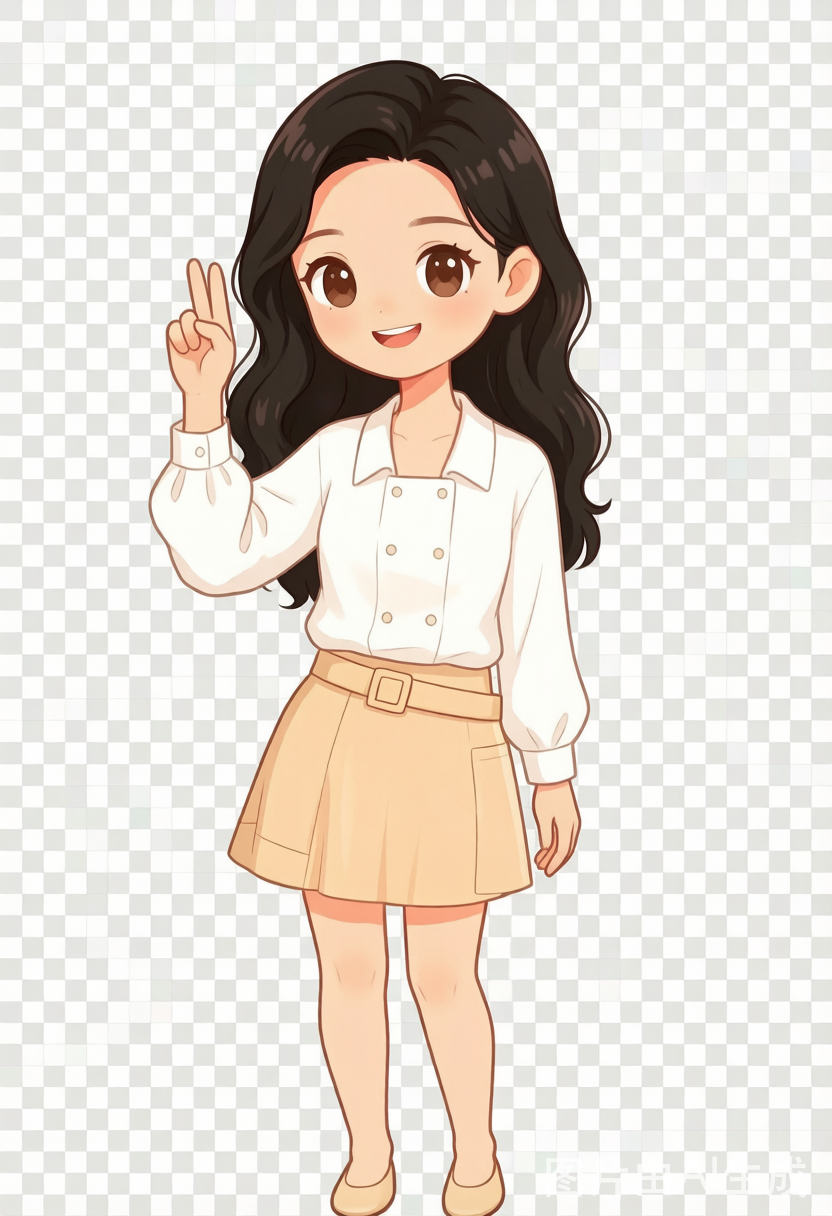
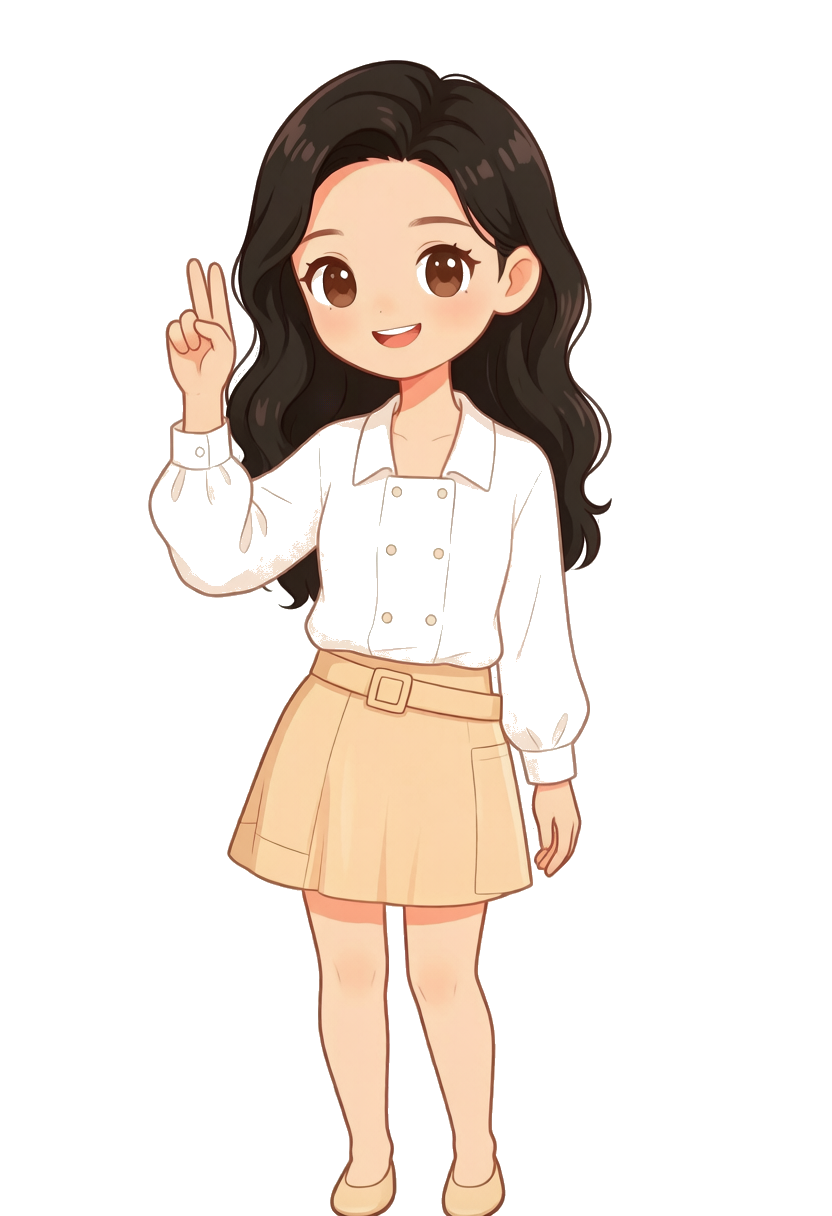
fix: 编辑器Bug修复(自动保存/气泡优先级/黏连) + 去背姿势图 + 标点避头
- Bug1: 编辑自动保存, 不再生成重复任务(currentTaskId闭环)
- Bug2: 切换任务后格子尺寸兜底, 不再缩小
- Bug3: 气泡优先级 人物指定 > 该格 > 默认, 加trim兜底
- Bug4: 气泡背景+文字可整体拖动/缩放, 双击可编辑
- 前端白边fallback改transparent, 后端标点避头if->while(连续标点)
- static/poses 批量去背(RGB->RGBA透明)

diff --git a/templates/index.html b/templates/index.html
@@ -4895,24 +4895,25 @@
                     if (target) {
                         if (target.type === 'textbox') {
                             startBubbleEdit(target);
-                        } else if (target.type === 'rect' && target.bubbleRef) {
+                        } else if (target.bubbleRef) {
+                            // 双击气泡底图/边框同样进入文字编辑
                             startBubbleEdit(target.bubbleRef);
                         }
                     }
                 });
 
-                // 修复：简化选中逻辑，避免强制切换导致交互混乱
+                // 修复（Bug4）：点击气泡底图(bubbleBgImg)或边框(borderRect)时，统一重定向到对应的
+                // 文字框(textbox)，使「气泡背景 + 文字」作为整体被选中、拖动、缩放，互不分离。
                 window.editorCanvas.on('before:selection:created', function(options) {
                     const target = options.target;
-                    // 点击 borderRect 时，重定向到对应的 textbox
-                    if (target && target.type === 'rect' && target.bubbleRef) {
+                    if (target && target.bubbleRef) {
                         options.target = target.bubbleRef;
                     }
                 });
 
                 window.editorCanvas.on('before:selection:updated', function(options) {
                     const target = options.selected && options.selected[0];
-                    if (target && target.type === 'rect' && target.bubbleRef) {
+                    if (target && target.bubbleRef) {
                         options.target = target.bubbleRef;
                     }
                 });
@@ -4972,8 +4973,10 @@
                             logicalH = finalPanelSize.height;
                         }
                     }
-                    logicalW = logicalW || img.width;
-                    logicalH = logicalH || img.height;
+                    // 兜底：即便 canvas_width 缺失且背景图读取失败，也使用默认画布尺寸常量，
+                    // 绝不回退为 0，避免编辑画布被压扁/缩小。
+                    logicalW = logicalW || img.width || 1024;
+                    logicalH = logicalH || img.height || 768;
                     window.editorLogicalWidth = logicalW;
                     window.editorLogicalHeight = logicalH;
                     const availableW = Math.max(320, container.clientWidth || 900);
@@ -5010,8 +5013,8 @@
                                 const legacyDarkBubble = legacyFill &&
                                     (0.299 * legacyFill[0] + 0.587 * legacyFill[1] + 0.114 * legacyFill[2] < 140);
                                 const fallbackTextColor = legacyDarkBubble ? '#ffffff' : '#333333';
-                                const fallbackStrokeColor = legacyDarkBubble ? '#000000' : '#ffffff';
-                                const fallbackStrokeWidth = Math.max(1, Math.round((b.fontSize || b.font_size || 18) / 12));
+                                const fallbackStrokeColor = 'transparent';
+                                const fallbackStrokeWidth = 0;
                                 // 兼容后端元数据：bubble_url / fill_color / outline_color
                                 // 兼容编辑器保存数据：bubbleImage / backgroundColor / borderColor
                                 const opts = {
@@ -5362,8 +5365,11 @@
             if (bubbleImage) {
                 fabric.Image.fromURL(bubbleImage, function(bgImg) {
                     bgImg.set({
-                        selectable: false,
-                        evented: false,
+                        // 修复（Bug4）：设为可选+可响应事件，使点击气泡底图也能命中并选中其关联
+                        // 文字框，配合 before:selection 重定向，实现「气泡背景+文字」整体拖动/缩放。
+                        // 锁定位/缩放/旋转，避免底图被单独变换而脱离文字。
+                        selectable: true,
+                        evented: true,
                         hasControls: false,
                         hasBorders: false,
                         lockMovementX: true, lockMovementY: true,
@@ -5395,6 +5401,7 @@
                     };
                     bubble.on('moving', syncBg);
                     bubble.on('scaling', syncBg);
+                    bubble.on('rotating', syncBg);
                     bubble.on('modified', syncBg);
                     syncBg();
                 }, { crossOrigin: 'anonymous' });
@@ -5409,8 +5416,10 @@
                 fill: 'transparent',
                 stroke: bubbleImage ? 'transparent' : (opts.borderColor || '#4A90D9'),
                 strokeWidth: bubbleImage ? 0 : (opts.borderWidth || 2),
-                selectable: false,
-                evented: false,
+                // 修复（Bug4）：设为可选+可响应，配合 before:selection 重定向到文字框，
+                // 使边框也作为整体的一部分被选中/拖动/缩放。
+                selectable: true,
+                evented: true,
                 hasControls: false,
                 hasBorders: false,
                 rx: radius + 3,
@@ -5868,7 +5877,10 @@
                             
                             // 修复：直接重新渲染整个预览，确保更新生效
                             renderComicPreview();
-                            
+                            // 修复（Bug1）：编辑保存成功后自动持久化到当前任务，
+                            // 不再需要手动再点【保存为任务】，且侧栏更新已有条目而非新增。
+                            autoSaveCurrentTask();
+
                             closeEditor();
                             showSuccess('✅ 面板编辑已保存并应用！');
                         } else {
@@ -6342,9 +6354,17 @@
         // 冗余记录该任务当前归属的「节」，便于换设备/清缓存后恢复分组
         taskSectionId:(typeof getTaskSectionIdOf==='function'?getTaskSectionIdOf(currentTaskId):null)
       };
-      const res=await TaskAPI.create(title,snapshot);
-      if(res.success){ currentTaskId=res.task&&res.task.id; showSuccess('任务已保存：'+title); await loadTasks(); }
-      else { showError(res.error||'保存失败'); }
+      // 修复（Bug1）：若已绑定到某个任务（打开/生成/上次保存），则「更新」而非「新建」，
+      // 从而避免侧栏出现重复任务。
+      let res;
+      if(currentTaskId){
+        res=await TaskAPI.update(currentTaskId,{data:snapshot});
+      } else {
+        res=await TaskAPI.create(title,snapshot);
+        if(res.success&&res.task){ currentTaskId=res.task.id; }
+      }
+      if(res&&res.success){ showSuccess('任务已保存：'+title); await loadTasks(); }
+      else { showError((res&&res.error)||'保存失败'); }
     }
 
     // 生成成功后自动保存/更新当前任务到左侧任务栏（已登录才生效）

diff --git a/app.py b/app.py
@@ -4782,7 +4782,9 @@ def render_bubble(draw, bubble_x, bubble_y, bubble_width, bubble_height, style='
 
 def bubble_text_colors(bubble_image_path=None, fill_color=None):
     """根据气泡底色自动选择文字和描边颜色，确保可读性。
-    深色气泡 -> 白字黑边；浅色气泡 -> 黑字白边。
+    深色气泡 -> 白字（无描边）；浅色气泡 -> 黑字（无描边）。
+    注：原为浅色气泡返回白色描边，会在文字外围形成一圈白边，编辑器无法单独编辑，
+    现已移除描边（返回 None），由字符本体颜色保证可读性。
     """
     try:
         if bubble_image_path:
@@ -4801,20 +4803,20 @@ def bubble_text_colors(bubble_image_path=None, fill_color=None):
                 if count:
                     avg_lum = total / count
                     if avg_lum < 140:
-                        return (255, 255, 255), (0, 0, 0)
+                        return (255, 255, 255), None
         elif fill_color is not None:
             rgb = fill_color[:3]
             lum = 0.299 * rgb[0] + 0.587 * rgb[1] + 0.114 * rgb[2]
             if lum < 140:
-                return (255, 255, 255), (0, 0, 0)
+                return (255, 255, 255), None
     except Exception as e:
         logger.debug(f"气泡底色亮度分析失败: {e}")
-    return (50, 50, 50), (255, 255, 255)
+    return (50, 50, 50), None
 
 
 def render_text(draw, text, bubble_x, bubble_y, bubble_width, bubble_height, font,
                 line_height, padding=12, align='center', text_color=(50, 50, 50), font_path=None,
-                stroke_fill=(255, 255, 255)):
+                stroke_fill=None):
     text = text.replace('\r', '').strip()
     if not text:
         return None
@@ -4869,8 +4871,11 @@ def render_text(draw, text, bubble_x, bubble_y, bubble_width, bubble_height, fon
         else:
             text_x = bubble_x + (bubble_width - line_width) // 2
 
-        draw.text((text_x, text_y), line, font=current_font, fill=text_color,
-                  stroke_width=stroke_width, stroke_fill=stroke_fill)
+        if stroke_fill is not None:
+            draw.text((text_x, text_y), line, font=current_font, fill=text_color,
+                      stroke_width=stroke_width, stroke_fill=stroke_fill)
+        else:
+            draw.text((text_x, text_y), line, font=current_font, fill=text_color)
         text_y += line_height
 
     # 编辑器需要复用最终实际生效的排版值；长文本可能在这里被缩小，不能只传
@@ -4878,7 +4883,7 @@ def render_text(draw, text, bubble_x, bubble_y, bubble_width, bubble_height, fon
     return {
         'font_size': current_size,
         'line_height': line_height,
-        'stroke_width': stroke_width,
+        'stroke_width': stroke_width if stroke_fill is not None else 0,
     }
 
 
@@ -4935,7 +4940,7 @@ def render_sound_effect(draw, text, x, y, bg_width, bg_height, font_path):
         text_x = cx - text_width // 2
         text_y = cy - text_height // 2
         
-        draw.text((text_x, text_y), text, font=font, fill=(255, 50, 100), stroke_width=2, stroke_fill=(255, 255, 255))
+        draw.text((text_x, text_y), text, font=font, fill=(255, 50, 100))
         
     except Exception as e:
         logger.warning(f"渲染音效文字失败: {str(e)}")
@@ -5257,7 +5262,21 @@ def _wrap_dialogue_lines(draw, text, font, max_width, max_chars_per_line=11):
                     current_line = ""
     if current_line:
         lines.append(current_line)
-    return lines
+
+    # 避头标点：换行后一行不应以"句末标点 / 后括号 / 后引号"开头。
+    # 这类标点应回贴到上一行末尾；若上一行已满（再加会溢出）则保留在行首，
+    # 以保证可读性优先于绝对避头。
+    # 用 while 而非 if：连续多个标点（如 "！"）需逐个回贴，不能只移一个。
+    forbidden_head = set('，。！？、；：”’）】〉》·…—,.!?;:)')
+    fixed = []
+    for idx, line in enumerate(lines):
+        while (idx > 0 and line and len(fixed) > 0 and line[0] in forbidden_head
+                and len(fixed[-1]) < max_chars_per_line):
+            fixed[-1] = fixed[-1] + line[0]
+            line = line[1:]
+        if line:
+            fixed.append(line)
+    return fixed
 
 
 def map_action_to_pose(action):
@@ -6222,13 +6241,27 @@ def composite_image(background_data, ip_paths, dialogue, output_path, speaker=''
             fill_color = bubble_colors[idx % len(bubble_colors)]
             outline_color = outline_colors[idx % len(outline_colors)]
             
-            # ===== 气泡图来源：三优先级 =====
-            # ① 逐句手动指定 bubble_images[idx] 非空 → 用逐句手动气泡
-            # ② 人物指定 character_bubble_map[current_speaker] 命中且非「自动」→ 用人物指定气泡
-            #    - 若值是 url（以 / 或 http 开头）→ 直接作为气泡图片路径使用
-            #    - 否则当作 emotion key → 调 get_random_bubble_image(value)
+            # ===== 气泡图来源：三优先级（显式人物指定 > 该格气泡 > 默认）=====
+            # ① 人物显式指定 character_bubble_map[current_speaker] 命中且非「自动」→ 用人物指定气泡
+            # ② 该格（panel）逐句手动指定 bubble_images[idx] 非空 → 用该格气泡
             # ③ 否则 → analyze_emotion 自动按语气匹配
             emotion_bubble_path = None
+
+            # 人物气泡：精确匹配当前说话人；并兼容前后端命名/空白差异做一次 trim 兜底
+            _char_bubble_value = None
+            if isinstance(character_bubble_map, dict) and current_speaker:
+                if current_speaker in character_bubble_map:
+                    _char_bubble_value = character_bubble_map.get(current_speaker)
+                else:
+                    _stripped = current_speaker.strip()
+                    for _k, _v in character_bubble_map.items():
+                        if _k is not None and _k.strip() == _stripped:
+                            _char_bubble_value = _v
+                            break
+            _per_character = (
+                _char_bubble_value is not None
+                and _char_bubble_value not in ('auto', '', None)
+            )
 
             _per_dialogue = (
                 bubble_images is not None
@@ -6236,37 +6269,28 @@ def composite_image(background_data, ip_paths, dialogue, output_path, speaker=''
                 and idx < len(bubble_images)
                 and bool(bubble_images[idx])
             )
-            if _per_dialogue:
+
+            if _per_character:
+                _char_bubble = _char_bubble_value
+                # 值为气泡图片 url（/ 或 http 开头）→ 解析为本地路径；否则当作情绪 key
+                if isinstance(_char_bubble, str) and (
+                    _char_bubble.startswith('/') or _char_bubble.startswith('http')
+                ):
+                    if _char_bubble.startswith('/'):
+                        emotion_bubble_path = os.path.join(
+                            app.root_path, _char_bubble.lstrip('/')
+                        )
+                    else:
+                        # http(s) 远程 url：下载到本地临时文件
+                        emotion_bubble_path = _download_bubble_to_local(_char_bubble)
+                    logger.info(f"[人物气泡] {current_speaker} -> {_char_bubble} (url)")
+                else:
+                    # 值为情绪 key（happy/sad/angry/surprised/neutral/custom）→ 随机取该情绪气泡
+                    emotion_bubble_path = get_random_bubble_image(_char_bubble)
+                    logger.info(f"[人物气泡] {current_speaker} -> {_char_bubble} (emotion)")
+            elif _per_dialogue:
                 emotion_bubble_path = bubble_images[idx]
                 logger.info(f"[逐句气泡] idx={idx} speaker={current_speaker} -> {bubble_images[idx]}")
-
-            elif (isinstance(character_bubble_map, dict)
-                  and current_speaker
-                  and current_speaker in character_bubble_map):
-                _char_bubble = character_bubble_map.get(current_speaker)
-                # 兼容前端可能传 null / 空串 / 'auto'（表示回退自动）
-                if _char_bubble and _char_bubble not in ('auto', '', None):
-                    if isinstance(_char_bubble, str) and (
-                        _char_bubble.startswith('/') or _char_bubble.startswith('http')
-                    ):
-                        # 值为气泡图片 url：解析为本地图片路径
-                        if _char_bubble.startswith('/'):
-                            emotion_bubble_path = os.path.join(
-                                app.root_path, _char_bubble.lstrip('/')
-                            )
-                        else:
-                            # http(s) 远程 url：下载到本地临时文件
-                            emotion_bubble_path = _download_bubble_to_local(_char_bubble)
-                        logger.info(f"[人物气泡] {current_speaker} -> {_char_bubble} (url)")
-                    else:
-                        # 值为情绪 key（happy/sad/angry/surprised/neutral/custom）→ 随机取该情绪气泡
-                        emotion_bubble_path = get_random_bubble_image(_char_bubble)
-                        logger.info(f"[人物气泡] {current_speaker} -> {_char_bubble} (emotion)")
-                else:
-                    # 显式回退到自动情绪
-                    emotion = analyze_emotion(dialogue_text)
-                    emotion_bubble_path = get_random_bubble_image(emotion)
-
             else:
                 emotion = analyze_emotion(dialogue_text)
                 emotion_bubble_path = get_random_bubble_image(emotion)
@@ -6367,7 +6391,7 @@ def composite_image(background_data, ip_paths, dialogue, output_path, speaker=''
                 'padding': padding,
                 'text_align': text_align,
                 'text_color': list(text_color[:3]),
-                'stroke_fill': list(stroke_fill[:3]),
+                'stroke_fill': list(stroke_fill[:3]) if stroke_fill else None,
                 'stroke_width': text_render_info.get('stroke_width', 0),
                 'rendered_layer_url': bubble_layer_url,
                 'rendered_layer_x': bubble_layer_box[0] if bubble_layer_box else bubble_x,
@@ -13378,4 +13402,5 @@ def api_delete_task(task_id):
 if __name__ == '__main__':
     port = int(os.environ.get('PORT', 5000))
     logger.info(f"启动Flask应用，端口: {port}")
-    app.run(host='0.0.0.0', port=port, debug=False, threaded=True)
+    # debug=True 开启 Werkzeug reloader：修改 app.py 或模板后自动重启 Flask 让改动生效
+    app.run(host='0.0.0.0', port=port, debug=True, threaded=True)
